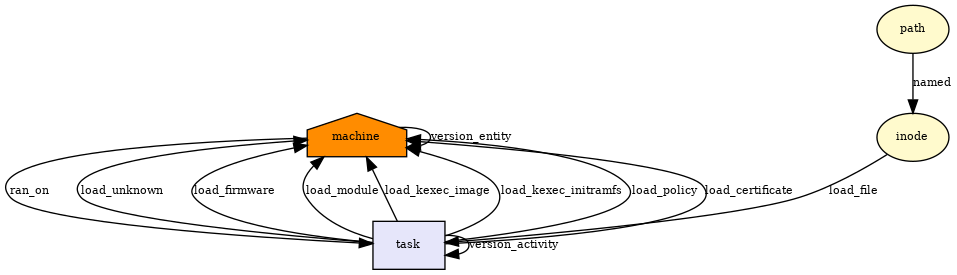
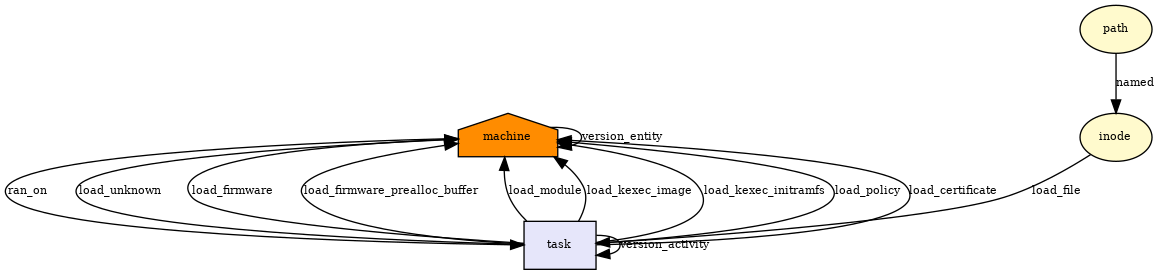
handle firmware prealloc buffer

diff --git a/security/provenance/type.c b/security/provenance/type.c
@@ -101,6 +101,7 @@ static const char RL_STR_LOAD_FILE[] = "load_file";                // load file 
 static const char RL_STR_RAN_ON[] = "ran_on";                     // load file into kernel
 static const char RL_STR_LOAD_UNKNOWN[] = "load_unknown";                      // load file into kernel
 static const char RL_STR_LOAD_FIRMWARE[] = "load_firmware";                       // load file into kernel
+static const char RL_STR_LOAD_FIRMWARE_PREALLOC_BUFFER[] = "load_firmware_prealloc_buffer";                       // load file into kernel
 static const char RL_STR_LOAD_MODULE[] = "load_module";                    // load file into kernel
 static const char RL_STR_LOAD_KEXEC_IMAGE[] = "load_kexec_image";                    // load file into kernel
 static const char RL_STR_LOAD_KEXEC_INITRAMFS[] = "load_kexec_initramfs";                    // load file into kernel
@@ -311,6 +312,8 @@ const char* relation_str(uint64_t type)
 		return RL_STR_LOAD_UNKNOWN;
 	case RL_LOAD_FIRMWARE:
 		return RL_STR_LOAD_FIRMWARE;
+	case RL_LOAD_FIRMWARE_PREALLOC_BUFFER:
+		return RL_STR_LOAD_FIRMWARE_PREALLOC_BUFFER;
 	case RL_LOAD_MODULE:
 		return RL_STR_LOAD_MODULE;
 	case RL_LOAD_KEXEC_IMAGE:
@@ -417,6 +420,7 @@ uint64_t relation_id(const char* str)
 	MATCH_AND_RETURN(str, RL_STR_LOAD_FILE, RL_LOAD_FILE);
 	MATCH_AND_RETURN(str, RL_STR_LOAD_UNKNOWN, RL_LOAD_UNKNOWN);
 	MATCH_AND_RETURN(str, RL_STR_LOAD_FIRMWARE, RL_LOAD_FIRMWARE);
+	MATCH_AND_RETURN(str, RL_STR_LOAD_FIRMWARE_PREALLOC_BUFFER, RL_LOAD_FIRMWARE_PREALLOC_BUFFER);
 	MATCH_AND_RETURN(str, RL_STR_LOAD_MODULE, RL_LOAD_MODULE);
 	MATCH_AND_RETURN(str, RL_STR_LOAD_KEXEC_IMAGE, RL_LOAD_KEXEC_IMAGE);
 	MATCH_AND_RETURN(str, RL_STR_LOAD_KEXEC_INITRAMFS, RL_LOAD_KEXEC_INITRAMFS);

diff --git a/include/uapi/linux/provenance_types.h b/include/uapi/linux/provenance_types.h
@@ -138,13 +138,14 @@
 /* no more than 51!!!! */
 
 /* INFLUENCED  SUBTYPES */
-#define RL_LOAD_UNKNOWN						(RL_INFLUENCED | (0x0000000000000001ULL))
-#define RL_LOAD_FIRMWARE					(RL_INFLUENCED | (0x0000000000000001ULL<<1))
-#define RL_LOAD_MODULE 						(RL_INFLUENCED | (0x0000000000000001ULL<<2))
-#define RL_LOAD_KEXEC_IMAGE				(RL_INFLUENCED | (0x0000000000000001ULL<<3))
-#define RL_LOAD_KEXEC_INITRAMFS		(RL_INFLUENCED | (0x0000000000000001ULL<<4))
-#define RL_LOAD_POLICY 						(RL_INFLUENCED | (0x0000000000000001ULL<<5))
-#define RL_LOAD_CERTIFICATE				(RL_INFLUENCED | (0x0000000000000001ULL<<6))
+#define RL_LOAD_UNKNOWN										(RL_INFLUENCED | (0x0000000000000001ULL))
+#define RL_LOAD_FIRMWARE									(RL_INFLUENCED | (0x0000000000000001ULL<<1))
+#define RL_LOAD_FIRMWARE_PREALLOC_BUFFER	(RL_INFLUENCED | (0x0000000000000001ULL<<2))
+#define RL_LOAD_MODULE 										(RL_INFLUENCED | (0x0000000000000001ULL<<3))
+#define RL_LOAD_KEXEC_IMAGE								(RL_INFLUENCED | (0x0000000000000001ULL<<4))
+#define RL_LOAD_KEXEC_INITRAMFS						(RL_INFLUENCED | (0x0000000000000001ULL<<5))
+#define RL_LOAD_POLICY 										(RL_INFLUENCED | (0x0000000000000001ULL<<6))
+#define RL_LOAD_CERTIFICATE								(RL_INFLUENCED | (0x0000000000000001ULL<<7))
 
 /* ASSOCIATED  SUBTYPES */
 #define RL_RAN_ON			 				(RL_ASSOCIATED | (0x0000000000000001ULL))

diff --git a/security/provenance/hooks.c b/security/provenance/hooks.c
@@ -1119,7 +1119,10 @@ static int provenance_kernel_read_file(struct file *file
 	unsigned long irqflags;
 	int rc = 0;
 
-	if (!iprov)                     // not sure it could happen, ignore it for now
+	if (id >= READING_MAX_ID) // should not happen
+		return 0;
+
+	if (!iprov) // not sure it could happen, ignore it for now
 		return 0;
 	spin_lock_irqsave_nested(prov_lock(iprov), irqflags, PROVENANCE_LOCK_INODE);
 	switch(id) {
@@ -1128,6 +1131,9 @@ static int provenance_kernel_read_file(struct file *file
 			break;
 		case READING_FIRMWARE:
 			rc = record_influences_kernel(RL_LOAD_FIRMWARE, iprov, tprov, file);
+			break;
+		case READING_FIRMWARE_PREALLOC_BUFFER:
+			rc = record_influences_kernel(RL_LOAD_FIRMWARE_PREALLOC_BUFFER, iprov, tprov, file);
 			break;
 		case READING_MODULE:
 			rc = record_influences_kernel(RL_LOAD_MODULE, iprov, tprov, file);

diff --git a/include/uapi/linux/provenance.h b/include/uapi/linux/provenance.h
@@ -30,7 +30,7 @@
   "."xstr(CAMFLOW_VERSION_MINOR)\
   "."xstr(CAMFLOW_VERSION_PATCH)\
 
-#define CAMFLOW_COMMIT "274245c7e7ec93990711ae9c973f43d60ba42cb0"
+#define CAMFLOW_COMMIT "cf0ea650ccab19052431cf980591657be21592c2"
 
 #define PROVENANCE_HASH "sha256"
 

diff --git a/docs/RELATIONS.md b/docs/RELATIONS.md
@@ -91,6 +91,7 @@ RL_LOAD_FILE|load_file|load file into kernel|
 RL_RAN_ON|ran_on|load file into kernel|
 RL_LOAD_UNKNOWN|load_unknown|load file into kernel|
 RL_LOAD_FIRMWARE|load_firmware|load file into kernel|
+RL_LOAD_FIRMWARE_PREALLOC_BUFFER|load_firmware_prealloc_buffer|load file into kernel|
 RL_LOAD_MODULE|load_module|load file into kernel|
 RL_LOAD_KEXEC_IMAGE|load_kexec_image|load file into kernel|
 RL_LOAD_KEXEC_INITRAMFS|load_kexec_initramfs|load file into kernel|
